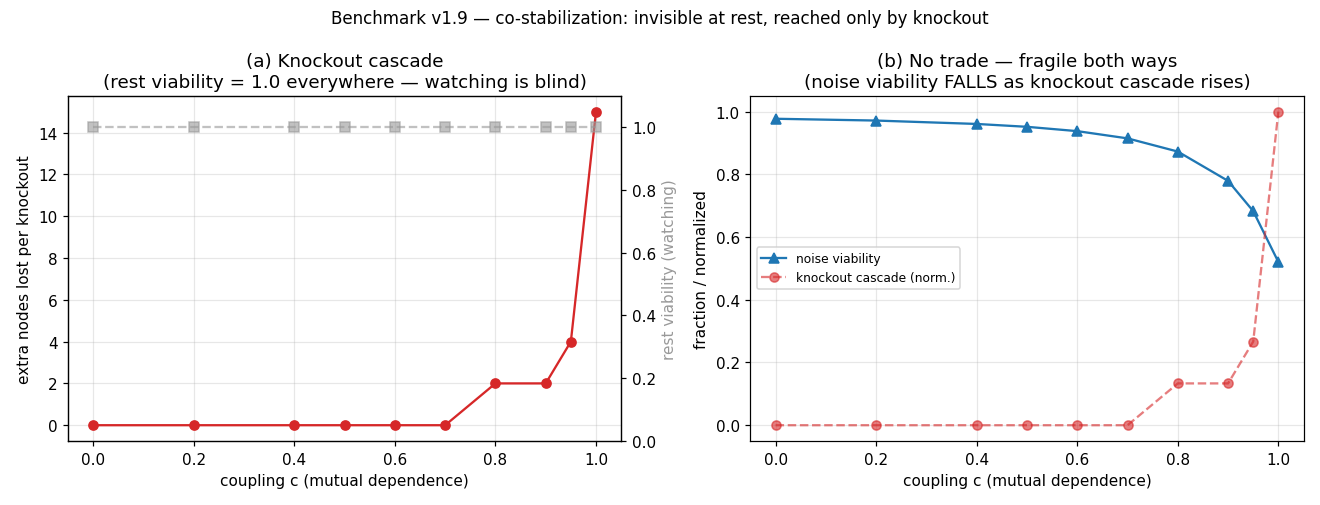
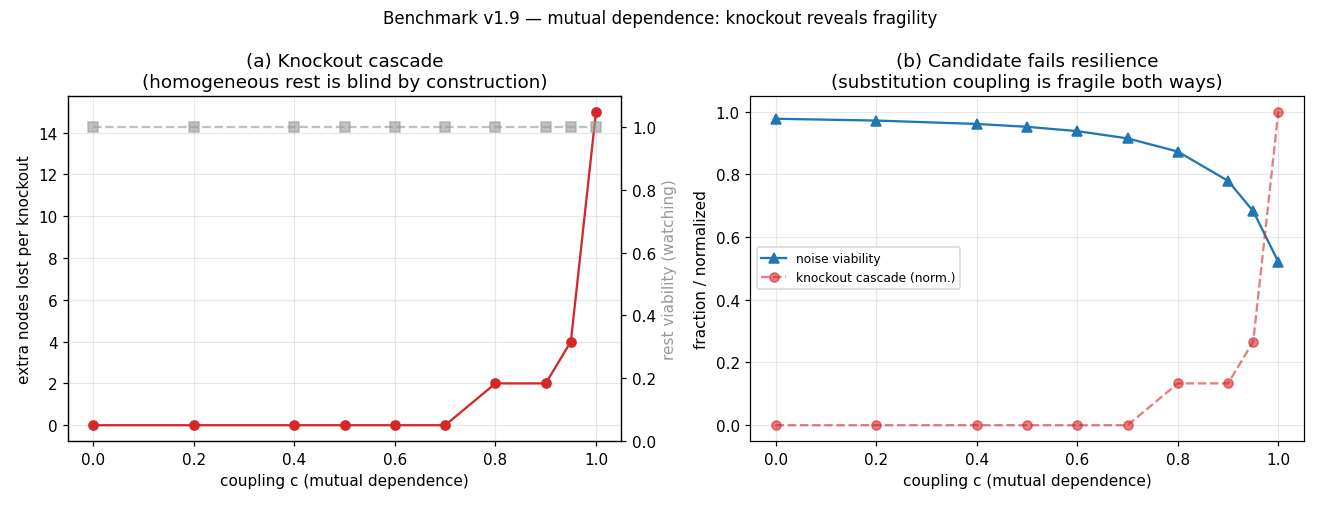
lab: regenerate the v1.9 figure and normalize benchmark figure names
The v1.9 figure was orphaned since #21: the README dropped the embed
because the committed image predated the interpretive calibration and
still carried the old labels. Regenerated via co_stabilization.py
--save (numbers reproduce: noise viability 0.977 -> 0.521, cascade 15
at c=1.0) and re-embedded it, so every benchmark version v0-v1.11 has
a figure again.

Also renames the v1.11 output to inverse_benchmark_population.png,
matching the naming pattern of every other benchmark figure, and fixes
the one relative link the strict docs build flagged.

Changed region(s): [[0.5902, 0.0891, 0.9629, 0.1782], [0.2485, 0.0, 0.7455, 0.0594], [0.0621, 0.1485, 0.4659, 0.1782]]

diff --git a/lab/benchmarks/inverse-reconstruction/co_stabilization_population.py b/lab/benchmarks/inverse-reconstruction/co_stabilization_population.py
@@ -718,7 +718,7 @@ def main() -> None:
     result = run_experiment(args.seeds)
     report(result)
     if args.save:
-        path = Path(__file__).resolve().parents[2] / "tools" / "co_stabilization_population.png"
+        path = Path(__file__).resolve().parents[2] / "tools" / "inverse_benchmark_population.png"
         plot(result, path)
 
 

diff --git a/lab/benchmarks/inverse-reconstruction/README.md b/lab/benchmarks/inverse-reconstruction/README.md
@@ -181,7 +181,7 @@ This is a pair with a fixed mask, not an ecology: nothing here composes spontane
 
 The useful result is negative and narrowing: **substitutive interdependence is not yet co-stabilization**. It produces a monoculture-like dependency pattern while failing the resilience criterion that motivated the ecology reading. Co-stabilization therefore remains `[HYPOTHESIZED]`. The next discriminating model must retain self-sufficiency and add redundant coupling; the population version remains one level further out.
 
-*The committed v1.9 figure predates this interpretive calibration. Re-run `co_stabilization.py --save` to regenerate it with the corrected labels; the numerical data are unchanged.*
+![Substitutive coupling under knockout and noise](../../tools/inverse_benchmark_co_stabilization.png)
 
 ## v1.10 — redundant mutual support under a matched budget (run)
 
@@ -224,7 +224,7 @@ The preregistered candidate criterion required three things: valid accounting, m
 
 The preregistered endogenous co-stabilization criterion is therefore **not supported**. v1.11 exposes the missing bridge between a mechanism that benefits a collective and one that evolution actually retains. The next discriminating models are not “more support” but mechanisms that can alter that selection problem: partner choice, conditional reciprocity, and spatial/kin assortment. Resource production and open-ended topology remain external beyond that.
 
-![Endogenous support population](../../tools/co_stabilization_population.png)
+![Endogenous support population](../../tools/inverse_benchmark_population.png)
 
 ## Running
 
@@ -273,4 +273,4 @@ Requires `numpy`, `matplotlib` only (repo `requirements.txt`).
 - [Measurement as Weak Intervention](../../../theory/core/measurement-as-weak-intervention.md) — the conceptual hinge on v1.1's hierarchy: coupling is not identification; plus the fourth (reflexive) regime the toys cannot exhibit.
 - [Open Problems](../../../theory/reference/open-problems.md) — Open Problem 11 (bounded inverse reconstruction).
 - [Related Work Map](../../../meta/research-alignment/related-work-map.md) — SINDy / system identification / program induction anchors.
-- [`lab/experiments/trace_to_generator/`](../../experiments/trace_to_generator/) — the earlier inverse-prompting scaffold.
+- [`lab/experiments/trace_to_generator/`](../../experiments/trace_to_generator/README.md) — the earlier inverse-prompting scaffold.